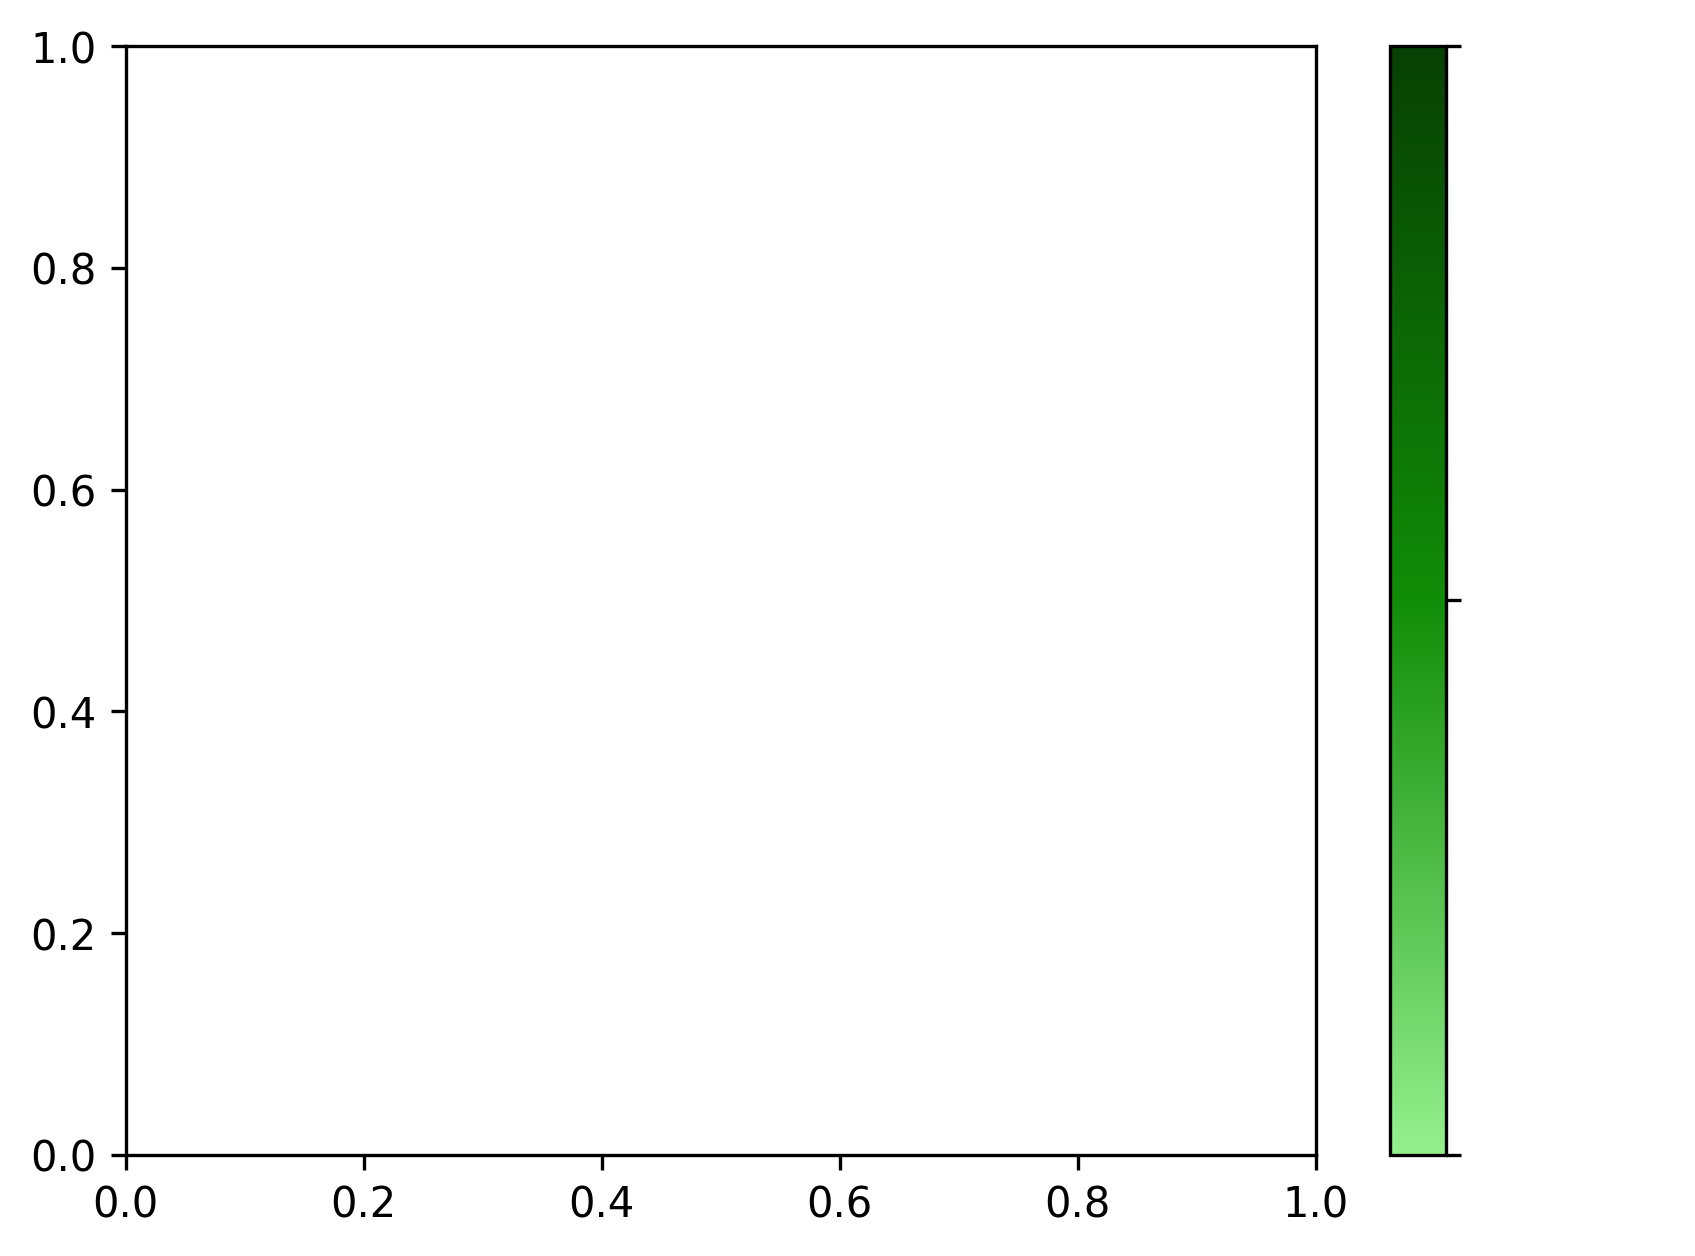
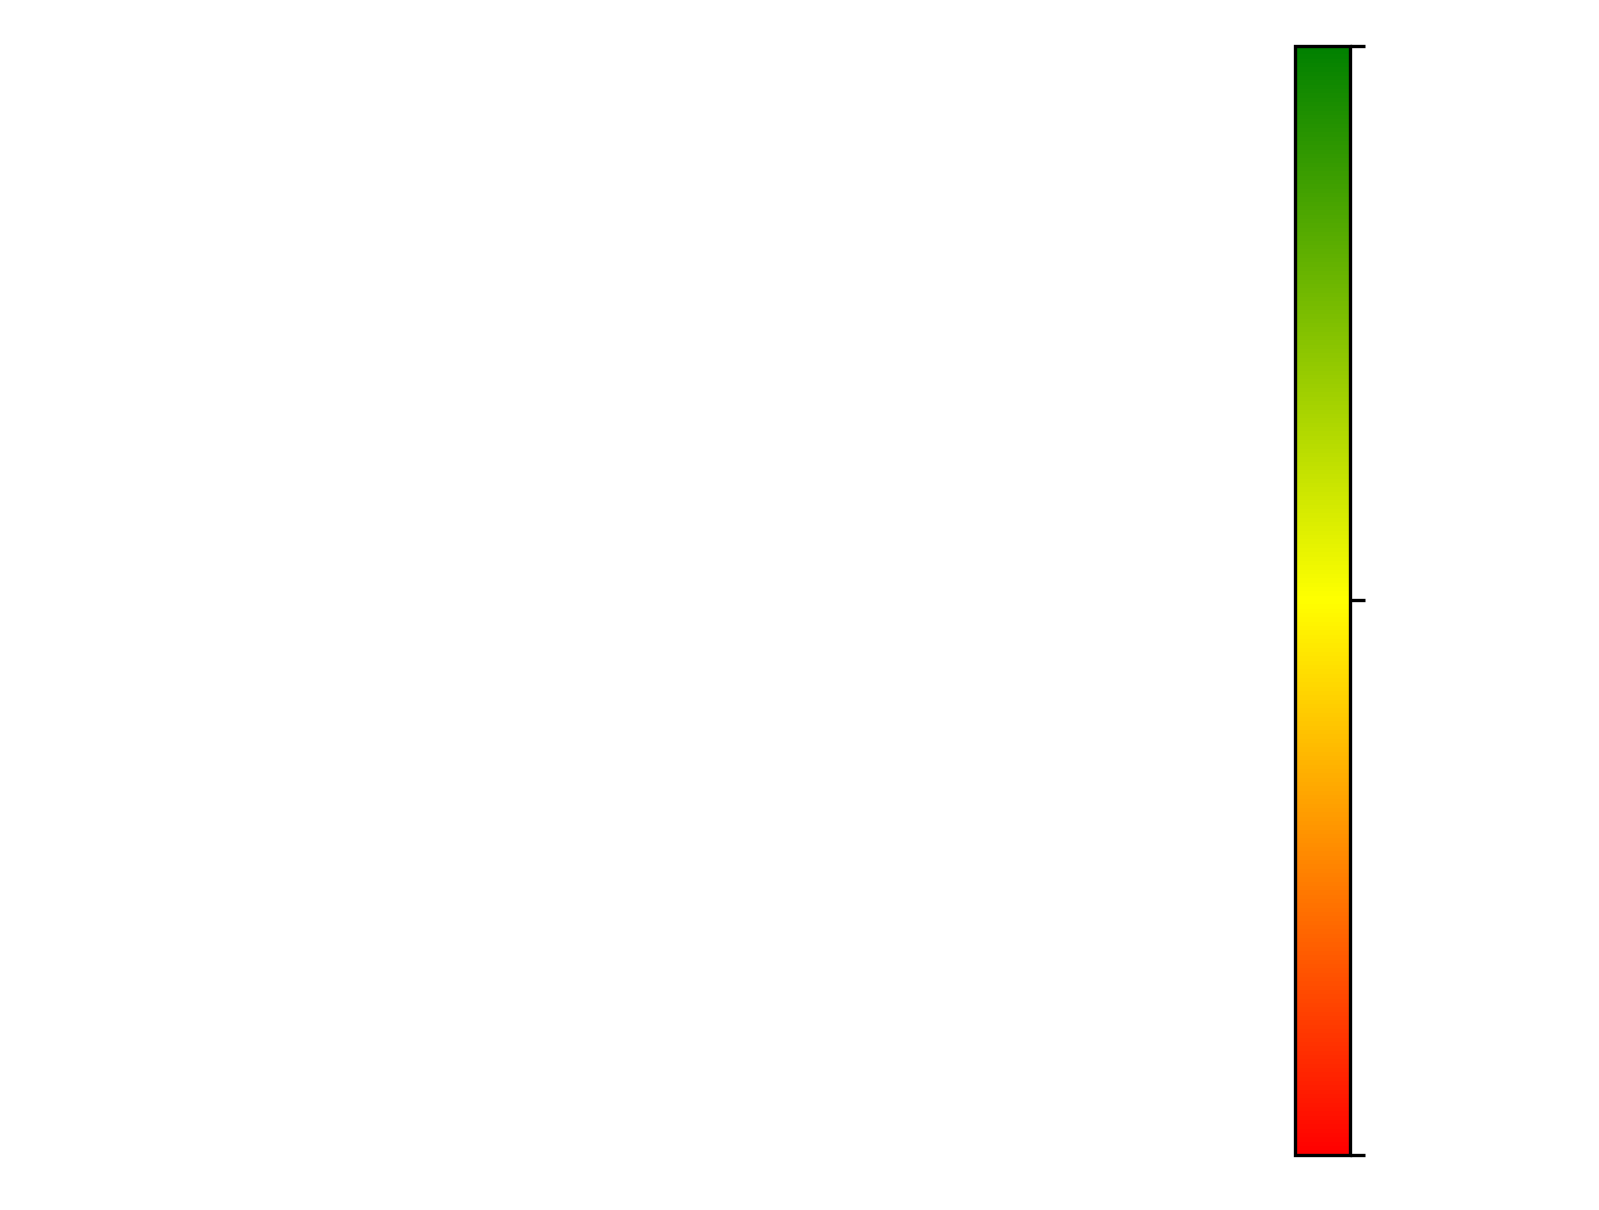
Restored code

Changed region(s): [[0.0, 0.0306, 0.858, 0.9785]]

diff --git a/src/lambda_function.py b/src/lambda_function.py
@@ -98,29 +98,29 @@ def lambda_handler(event, context):
 
     elif index == "NDVI":
         
-        #ds = rasterio.open(object_path)
-        #data = ds.read(1)
+        ds = rasterio.open(object_path)
+        data = ds.read(1)
         
         # NEW CODE ADDED HERE
-        with rasterio.open(object_path) as src:
+        # with rasterio.open(object_path) as src:
 
-            original_data = src.read(1)
-            new_pixel_size = 10 # 50cm
+        #     original_data = src.read(1)
+        #     new_pixel_size = 20 # 50cm
     
     
-            scaling_factor = src.transform.a / new_pixel_size
+        #     scaling_factor = src.transform.a / new_pixel_size
             
-            print(f"Scaling factor : {scaling_factor}")
+        #     print(f"Scaling factor : {scaling_factor}")
             
-            new_height = original_data.shape[0] * int(scaling_factor)
-            new_width = original_data.shape[1] * int(scaling_factor)
+        #     new_height = original_data.shape[0] * int(scaling_factor)
+        #     new_width = original_data.shape[1] * int(scaling_factor)
 
-            # Resample the raster to 10-meter resolution
-            resampled_data = src.read(
-                out_shape=(src.count, new_height, new_width),
-                resampling=Resampling.bilinear
-            )
-        data = resampled_data[0]
+        #     # Resample the raster to 10-meter resolution
+        #     resampled_data = src.read(
+        #         out_shape=(src.count, new_height, new_width),
+        #         resampling=Resampling.bilinear
+        #     )
+        # data = resampled_data[0]
         
 
         colors_list = ['#808080', '#94f08d', '#4df267', '#108c07', '#0c6d05', '#074003']

diff --git a/src/Legends/NDVI_Legend.py b/src/Legends/NDVI_Legend.py
@@ -2,8 +2,9 @@ import matplotlib.pyplot as plt
 import matplotlib.colors as mcolors
 
 # Define the colors and labels
-#colors = ['#00FF00', '#006400', '#228B22']
-colors = ['#94f08d', '#108c07','#074003']
+
+#colors = ['#94f08d', '#108c07','#074003']
+colors = ['Red', 'Yellow','Green']
 labels = ['Poor', 'Good', 'Excellent']
 
 # Create a color map from the colors
@@ -15,6 +16,6 @@ fig, ax = plt.subplots()
 # Create a colorbar and set the tick labels
 cb = plt.colorbar(plt.cm.ScalarMappable(cmap=cmap), ax=ax, orientation='vertical', ticks=[0, 0.5, 1])
 cb.ax.set_yticklabels(labels, color='white')
-
+ax.set_axis_off()
 # Save the colorbar as a PNG file
-plt.savefig('ndvi.png', dpi=300, bbox_inches='tight', transparent=True)
+plt.savefig('/home/ashutosh/Documents/Development_projects/aws-gis-stac/GIS-get-data/src/Legends/ndvi.png', dpi=300, bbox_inches='tight', transparent=True)

diff --git a/src/color_raster.py b/src/color_raster.py
@@ -6,7 +6,7 @@ import matplotlib.patches as patches
 
 def raster_color_png(ndvi_array,colors_list,bounds):
 
-    '''
+
     # Define the custom colormap
     cmap_name = 'custom_ndvi_colormap'
     cmap = colors.ListedColormap(colors_list, name=cmap_name)
@@ -20,8 +20,8 @@ def raster_color_png(ndvi_array,colors_list,bounds):
     ax.set_axis_off()
 
     plt.savefig('/tmp/tmp.png', dpi=200, bbox_inches='tight', pad_inches = 0 ,transparent=True)
-    '''
-    cmap = plt.cm.get_cmap('RdYlGn') 
-    colored_ndvi = (cmap(ndvi_array) * 255).astype(np.uint8)
     
-    plt.imsave('/tmp/tmp.png', colored_ndvi)
+    # cmap = plt.cm.get_cmap('RdYlGn') 
+    # colored_ndvi = (cmap(ndvi_array) * 255).astype(np.uint8)
+    
+    # plt.imsave('/tmp/tmp.png', colored_ndvi)
